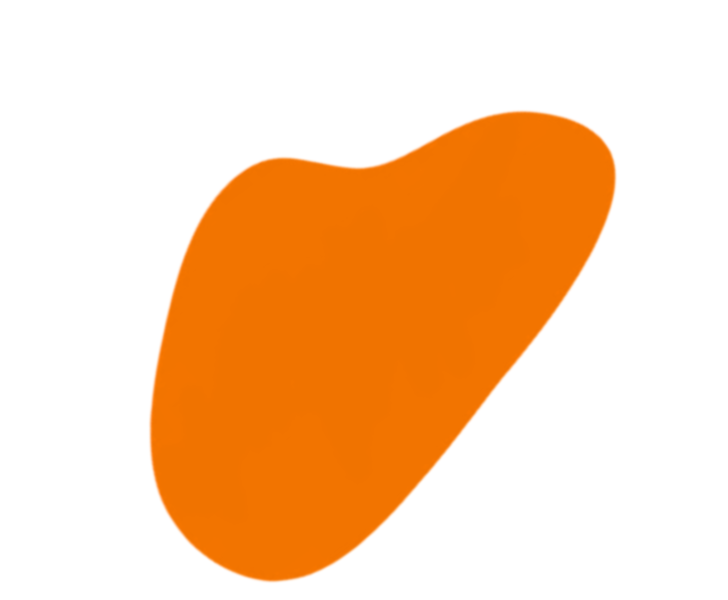
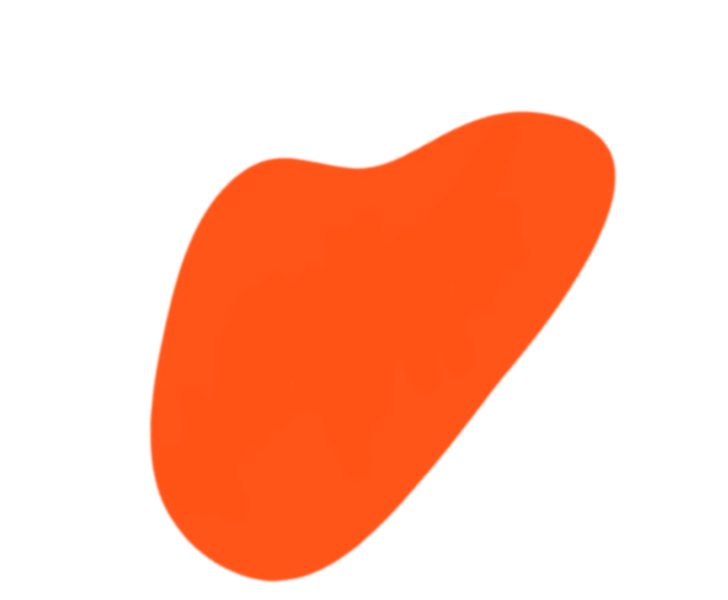
landing-page

diff --git a/index.html b/index.html
@@ -25,15 +25,18 @@
             </ul>
         </nav>
     </header>
-
-    <h1>Lorem ipsum, dolor sit.</h1>
-    <p>Lorem, ipsum dolor sit amet consectetur adipisicing elit. Porro doloribus minima nihil rem recusandae vel amet mollitia qui, unde, illum nam pariatur quam a, debitis id ullam neque totam exercitationem.</p>
-
-
-    <div class="container-img">
-        <img class="item1" src="src/imagens/fundo.png" alt="">
-        <img class="item2" src="src/imagens/skate-andando-sf.png" alt="">
-    </div>
+    <main>
+            <section>
+                <div class="legendas">
+                    <h1>A Cultura do Skate: Conectando Apaixonados pelo Esporte</h1>
+                    <p>Aqui é um espaço vibrante dedicado aos amantes do esporte, oferecendo vídeos de manobras, entrevistas com skatistas, tutoriais e informações sobre equipamentos. Com um design interativo, ela serve como um ponto de encontro para skatistas de todas as idades, promovendo uma comunidade unida e celebrando a cultura skater, que valoriza criatividade e camaradagem.</p>
+                </div>
+                <div class="container-img">
+                    <img class="item1" src="src/imagens/fundo.png" alt="">
+                    <img class="item2" src="src/imagens/skate-andando-sf.png" alt="">
+                </div>
+            </section>
+    </main>
 
     <script src="app.js"></script>
 </body>

diff --git a/style.css b/style.css
@@ -1,3 +1,7 @@
+@import url('https://fonts.googleapis.com/css2?family=Danfo&display=swap');
+
+@import url('https://fonts.googleapis.com/css2?family=Danfo&family=Unbounded:wght@200..900&display=swap');
+
 *{
     margin: 0px;
     padding: 0px;
@@ -6,27 +10,34 @@
 }
 
 :root{
-    --titulos:#f17300;
-    --bg:#404242;
+    --font: "Danfo", serif;
+    --font2:"Unbounded", sans-serif;
+    --titulos:#ff4706;
+    --bg:#d8d8d8;
 }
 
 .dark-mode:root{
-    --titulos:#f17300;
-    --bg:#00a1a1;
+    --titulos:#ff4706;
+    --bg:#404242;
+}
+
+body{
+    background-color: var(--bg);
 }
 
 .fa-moon{
   display: none;
 }
 
-.container-img{
-    background-color: var(--bg);
+.fa-solid{
+    padding: 5px 20px;
 }
 
 header nav{
     display: flex;
-    justify-content: space-between;
+    justify-content: space-around;
     align-items: center;
+    background-color: var(--titulos);
 }
 
 nav ul {
@@ -37,8 +48,28 @@ nav ul {
 nav li{
     justify-content: space-around;
     background-color: aqua;
+    text-align: center;
     padding: 10px;
     margin: 20px;
+}
+
+/** MAIN */
+
+main{
+    width: 1500px;
+    margin: auto;
+}
+
+section{
+    height: 93vh;
+    display: flex;
+    margin: auto;
+    align-items: center;
+}
+
+h1{
+    font-family: var(--font2);
+    font-size: 40px;
 }
 
 
